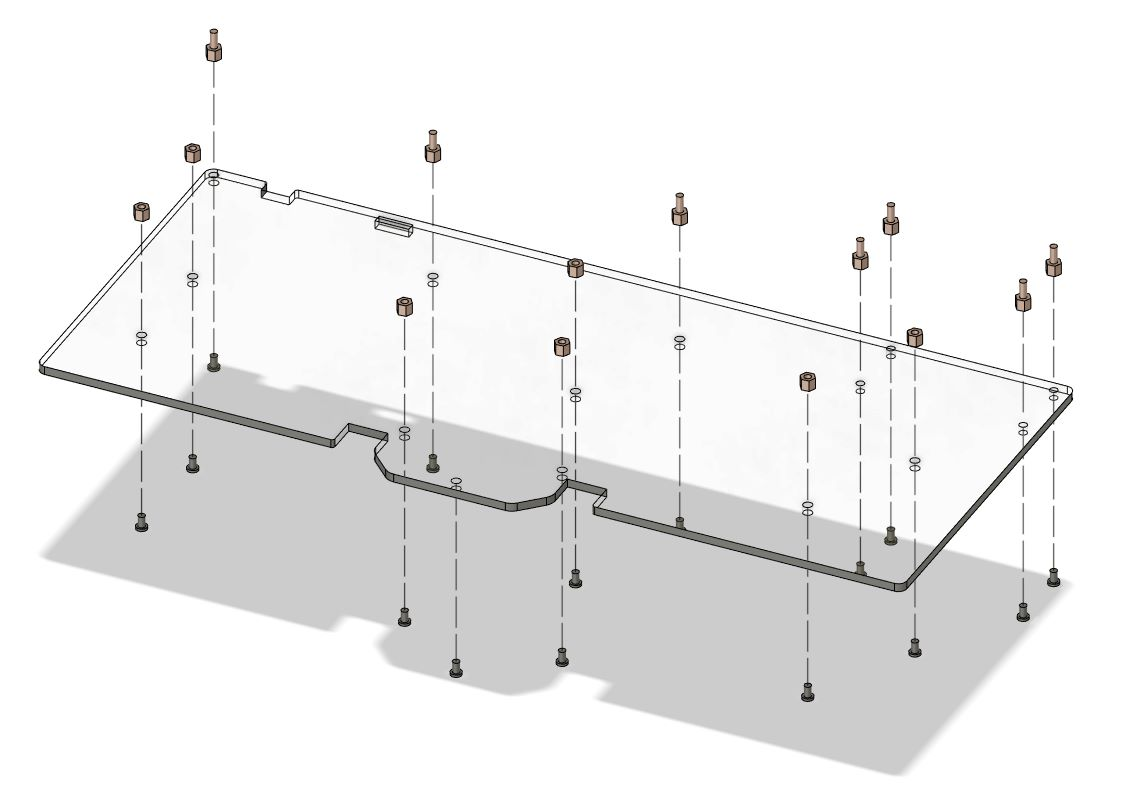
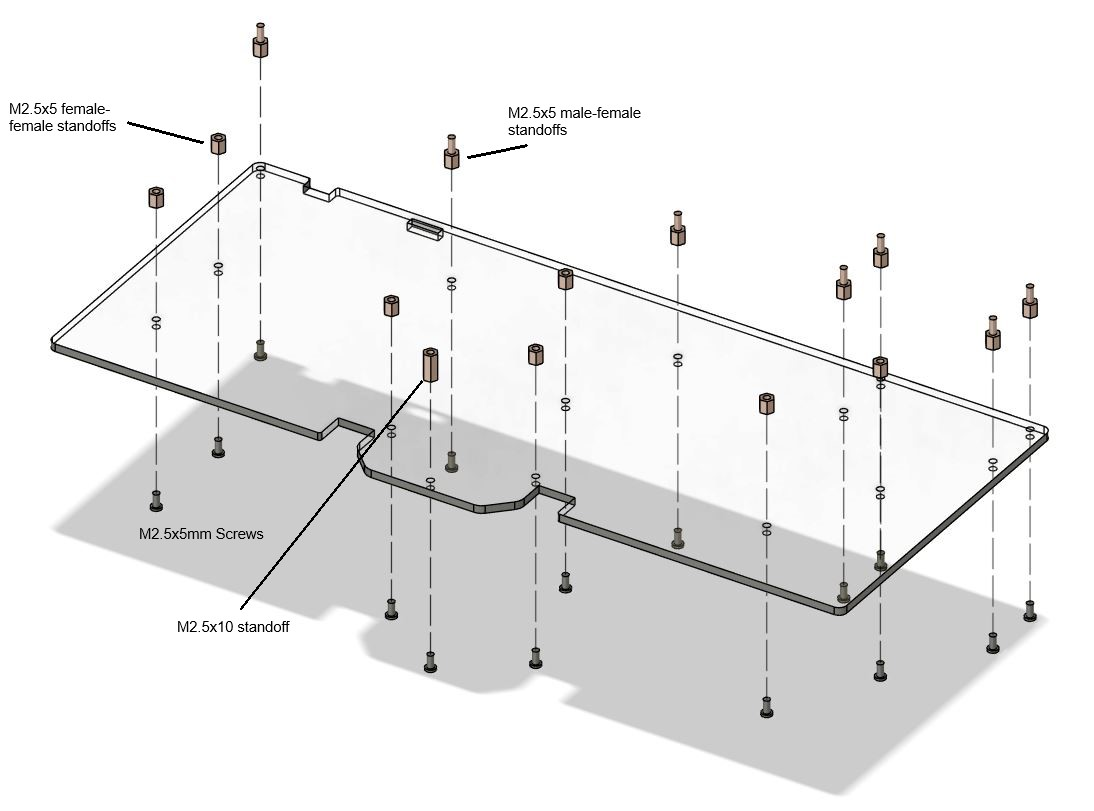
Updated images

diff --git a/README.md b/README.md
@@ -11,6 +11,7 @@ A mechnical keyboard and a cyberdeck. Powered by [PicoMK](https://github.com/zli
 - [Photos](#photos)
   - [V2](#v2)
   - [V1](#v1)
+- [Q\&A](#qa)
 - [PCB Library Licenses](#pcb-library-licenses)
 
 # [Build Instructions](Docs/BuildInstructions_V2.md)
@@ -33,6 +34,44 @@ A mechnical keyboard and a cyberdeck. Powered by [PicoMK](https://github.com/zli
 ![Photo1](Images/V1_Photo1.jpg)
 ![Photo2](Images/V1_Photo2.jpg)
 ![Photo3](Images/V1_Photo3.jpg)
+
+# Q&A
+
+Special thanks to [icon-oclast](https://github.com/icon-oclast) for [asking](https://github.com/zli117/CyberKeeb2040/issues/2) these great questions.
+
+> What are the dip switches used for? Is there a recommended default setting for these?
+
+The 4 positions are for each line of the SPI connection between the pi pico and pi zero. This allows cutting the connections between pi pico and pi zero without cutting the power connections. I initially designed it for the (paranoid) scenario where I can't kill the pi zero, but doesn't want it to do autotype or receiving the key strokes, but I found such scenario increasing unlikely. So, if you don't want to solder the DIP switches, feel free to just short the corresponding pins.
+
+> Presumably the switch/jumper labeled "pi power" controls pass-through power from the Pico to the Zero?
+
+Yes.
+
+> Is there a minimum USB current needed when powering both boards
+
+I don't have the empirical measurements, but here's the estimate:
+Pico: <20mA. Data source: https://mjoldfield.com/atelier/2021/11/pico-power.html
+SSD1306: <7mA. Data source: https://hsel.co.uk/2018/12/04/ssd1306-power-consumption/
+Pi Zero W: <400mA under stress. Data source: https://www.tomshardware.com/reviews/raspberry-pi-zero-2-w-review
+Pi Zero 2 W: <600mA under stress.
+
+So let's say it's 700mA if you want to stress the pi zero. I did run the stressberry on pi zero 2 w, with the display hat, and a wireless mouse receiver. The board is connected to the USB3.0 port and there's no under voltage warning, and no visible heat up on the cable or the connectors. However, due to differences on the motherboards, YMMY. I currently don't have a USB power meter to measure the actual current drawn.
+
+> Is there a maximum safe current to pass-through (when using the optional display hat for example)?
+
+The trace between pico and pi zero has width of 1mm, and length around 300mm. Assuming you're using 1oz copper thickness, it should result in a maximum current of 1.2 A for temperature rise of 10 degree C.
+
+> Is it safe to power the zero independently by setting the pi power switch/jumper to off?
+
+Yes.
+
+> What about the two connectors at the bottom of the board, either 4-pin jst sockets as in the build instructions, or possibly 5-pin headers on some revisions of the pcb, how are they intended to be used?
+
+They are for my future plans :) Essentially, they expose three buttons from the key scan matrix, and pin 26 and 27. Pin 26 and 27 are analog input pins and I2C 1. I'm planning to create a plugin module for the joystick mouse pad similar to the one I have on the Pico-Keyboard, and an I2C expansion board for more modules like a num pad. 
+
+> What cool things can we do if we include the optional 90 degree pin header(s)?
+
+The pin header under the small screen has been removed, because I figured it'll be difficult to use it for anything without creating a giant mess in the firmware. The other header exposes the addressable LEDs. Only WS2812 is supported and tested because it's used in the Pico-Keyboard. However, you might be able to use for other things as it's essentially a GPIO pin with ground and 5V, and a 330 ohm resister on the GPIO pin.
 
 # PCB Library Licenses
 

diff --git a/Docs/BuildInstructions_V2.md b/Docs/BuildInstructions_V2.md
@@ -113,12 +113,29 @@ This [video](https://www.youtube.com/watch?v=_DsCdOaRUPM) is a nice demonstratei
 ### Step 1
 ![Step 1](V2_Imgs/Step1.jpg)
 
-Install the standoffs to the bottom panel. All the screws used here are M2.5x5mm. There are 7 M2.5x5 male-female standoffs for the top part of the panel, and 7 M2.5x5 female-female standoffs for the lower part.
+Install the standoffs to the bottom panel. All the screws used here are M2.5x5mm. There are 7 M2.5x5 male-female standoffs for the top part of the panel, and 7 M2.5x5 female-female standoffs for the lower part. There's 1 M2.5x10mm standoff at the very bottom.
 
 ### Step 2
 ![Step 2](V2_Imgs/Step2.jpg)
 
-Install the standoffs to the bottom panel. All the screws used here are M2.5x5mm. There are 7 M2.5x5 male-female standoffs for the top part of the panel, and 7 M2.5x5 female-female standoffs for the lower part.
+Align the PCB to the standoffs.
+
+### Step 3
+![Step 3](V2_Imgs/Step3.jpg)
+
+Screw down the PCB with 7 M2.5x4mm screws.
+
+### Step 4
+![Step 4](V2_Imgs/Step4.jpg)
+
+Install the top bar standoffs with 7 M2.5x6mm standoffs. For the ones not over the Pi Zero, add a 1.5mm washer.
+
+### Step 5
+![Step 5](V2_Imgs/Step5.jpg)
+
+Install the top bar and the plate. 
+
+Tip: Add the switches, at least the ones on the edge, to the plate before installing the plate.
 
 ## Build Software
 
